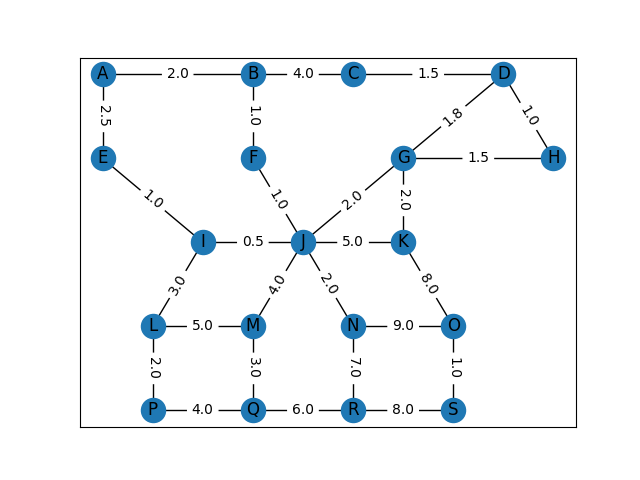
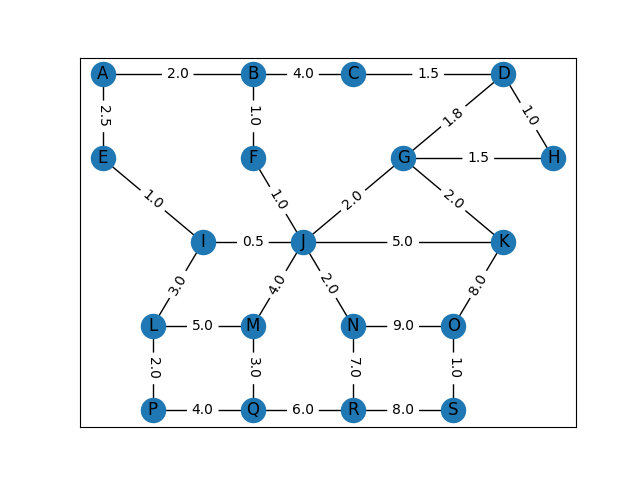
added some lines to grid problem more to come!

diff --git a/src/bspgraph.py b/src/bspgraph.py
@@ -17,7 +17,7 @@ def create_example_graph():
     G.add_node('H', pos=(9, 7))
     G.add_node('I', pos=(2, 5))
     G.add_node('J', pos=(4, 5))
-    G.add_node('K', pos=(6, 5))
+    G.add_node('K', pos=(8, 5))
     G.add_node('L', pos=(1, 3))
     G.add_node('M', pos=(3, 3))
     G.add_node('N', pos=(5, 3))
@@ -27,5 +27,49 @@ def create_example_graph():
     G.add_node('R', pos=(5, 1))
     G.add_node('S', pos=(7, 1))
     # adding position done
+
+    return G
+
+
+def create_grids(G: nx.classes.graph.Graph, number_of_grids_per_level=4, number_of_levels=1) \
+        -> nx.classes.graph.Graph:
+    """
+    Splits input graph in different grids, for Graph G = (V,E), where vertex for every v in V
+    v is in exactly one grid per layer
+    ----
+    :argument G: nx.classes.graph.Graph
+    :argument number_of_grids_per_level: int
+    :argument number_of_levels: int
+
+    :returns Graph with Node attributes including Grids
+    ____
+
+    """
+    assert (G is not None)
+    assert (number_of_grids_per_level >= 1)
+    assert (number_of_levels >= 1)
+
+    pos = nx.get_node_attributes(G, "pos")
+    list_of_positions = list(pos.values())
+    x, y = zip(*list_of_positions)
+    min_vertical = min(y)
+    min_horizontal = min(x)
+    max_vertical = max(y)
+    max_horizontal = max(x)
+
+    # calculate the step size
+    x_step_size = (max_vertical - min_vertical) / number_of_grids_per_level
+    y_step_size = (max_horizontal - min_horizontal) / number_of_grids_per_level
+
+    #creating dict with gridattributes
+    node_layers = dict.fromkeys(G.nodes(),{})
+    for node in node_layers:
+        for i in range(number_of_levels):
+            index = "level" + str(i)
+            node_layers[node][index] = -1 #initializing with -1
+
+    for gridx in range(number_of_grids_per_level):
+        for gridy in range(number_of_grids_per_level):
+            break
 
     return G

diff --git a/src/main.py b/src/main.py
@@ -3,7 +3,7 @@ import networkx as nx
 import matplotlib.pyplot as plt
 import pandas as pd
 import string
-from bspgraph import create_example_graph
+from bspgraph import create_example_graph, create_grids
 
 
 def main():
@@ -12,10 +12,9 @@ def main():
     # E = pd.read_csv('../data/cal.cedge', sep=" ")
     # print(E[])
     G = create_example_graph()
-
+    G = create_grids(G, 4, 3)
     pos = nx.get_node_attributes(G, 'pos')
     w = nx.get_edge_attributes(G, "weight")
-
     nx.draw_networkx(G, pos=pos)
     nx.draw_networkx_edge_labels(G, edge_labels=w, pos=pos)
     plt.show()
